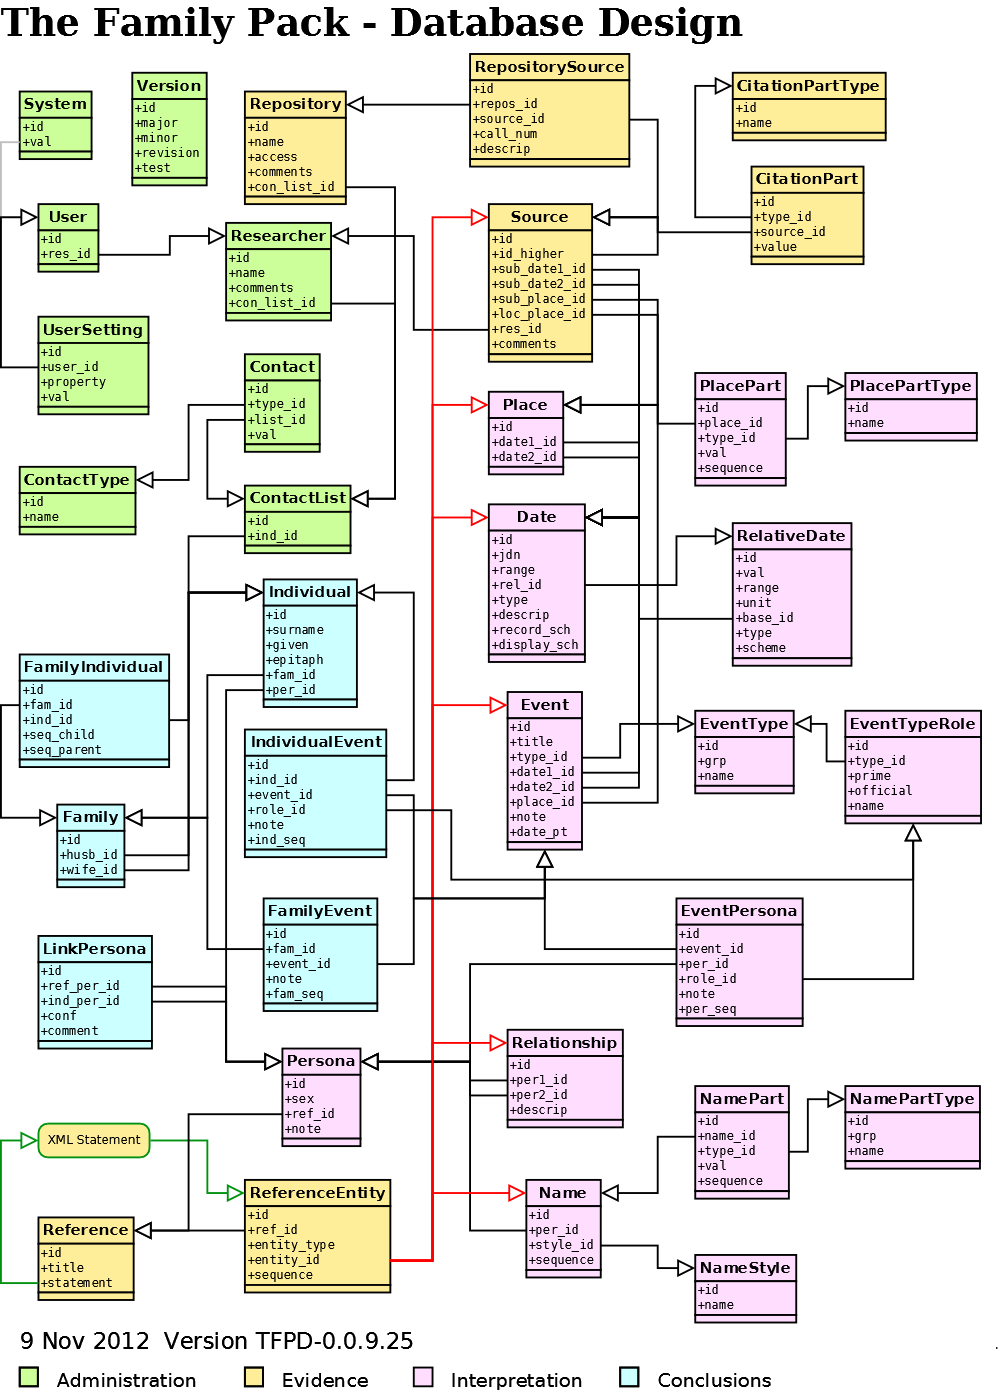
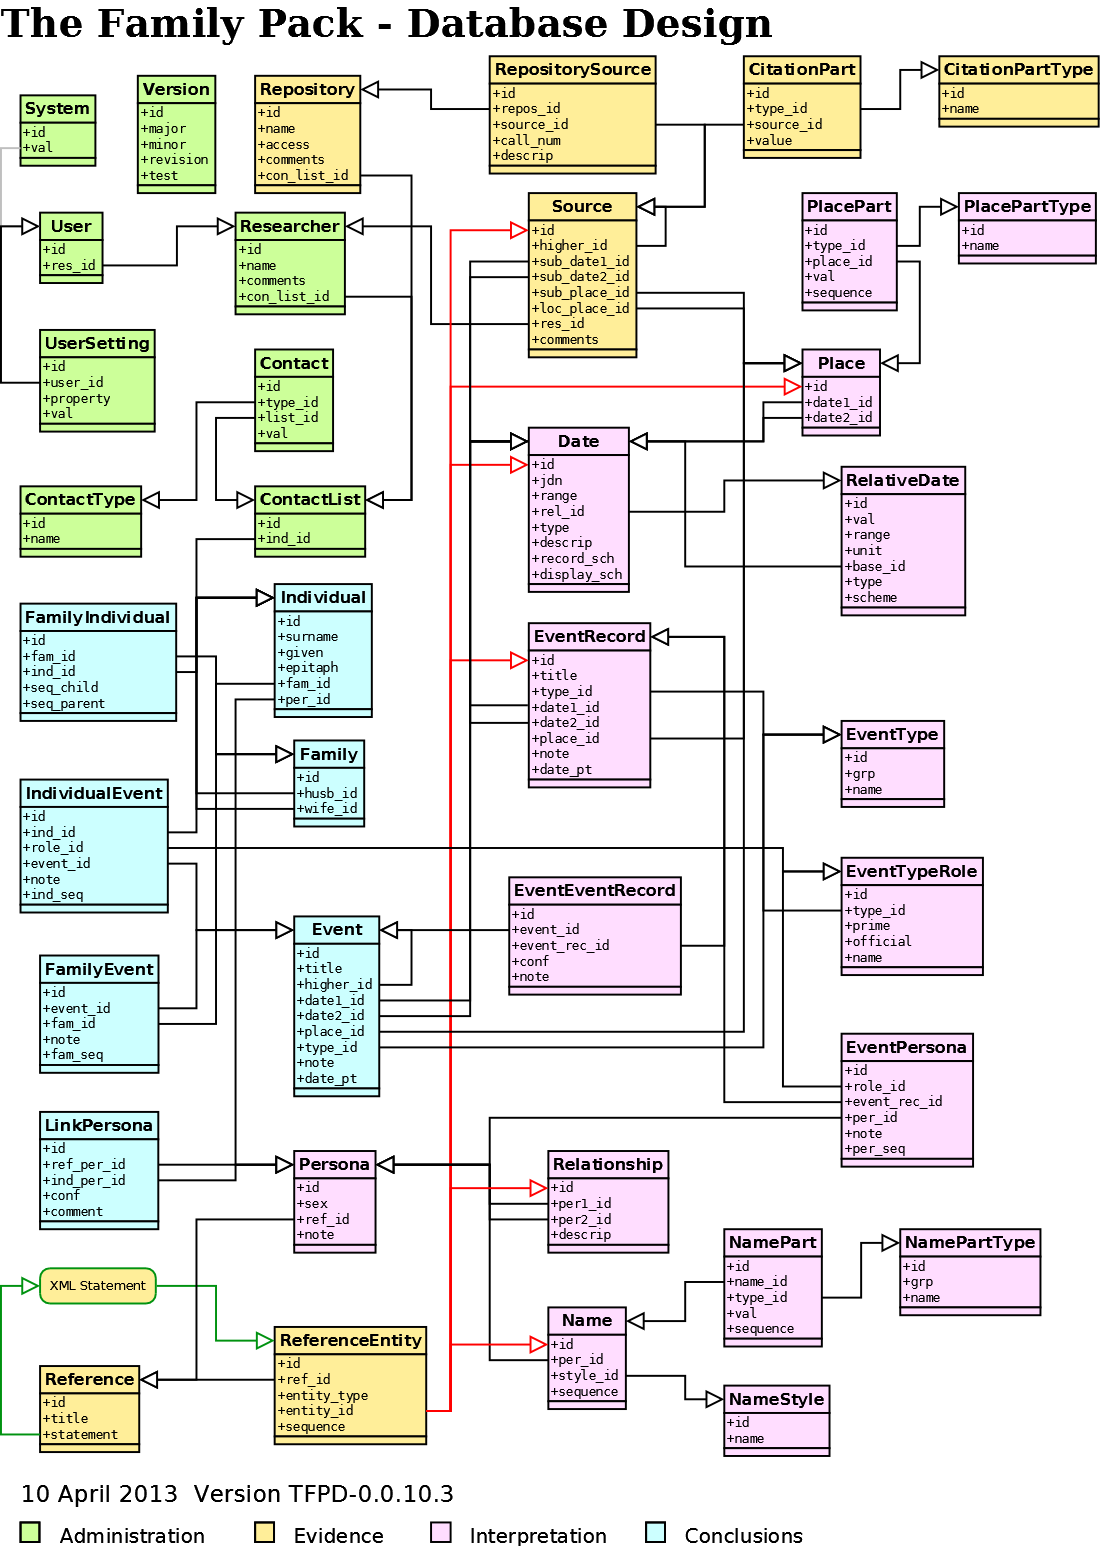
Update database to TFPD-0.0.10.3. Add column higher_id to table Event. Change column event_id to event_rec_id in table EventPersona. Add upgrade function. Update website.
git-svn-id: https://svn.code.sf.net/p/thefamilypack/code/tfp/trunk@479 0b5b8454-fdc9-41d1-a9ee-242ce37e0c65

diff --git a/website/db/dbdesign.htm b/website/db/dbdesign.htm
@@ -326,23 +326,28 @@
      <td>The name of the Event, such as "Marriage of John Smith and Mary Jones".</td>
     </tr>
     <tr>
+     <td>higher_id</td>
+     <td>Integer Not null FK</td>
+     <td>Unique identifier that indicates a higher Event which contains this event.</td>
+    </tr>
+    <tr>
      <td>type_id</td>
      <td>Integer Not null FK</td>
      <td>Unique identifier that indicates to which Event Type this event belongs.</td>
     </tr>
     <tr>
      <td>date1_id</td>
-     <td>Integer</td>
+     <td>Integer Not null FK</td>
      <td>The point date associated with the Event.</td>
     </tr>
     <tr>
      <td>date2_id</td>
-     <td>Integer</td>
+     <td>Integer Not null FK</td>
      <td>The optional second date if a date range is associated with the Event.</td>
     </tr>
     <tr>
      <td>place_id</td>
-     <td>Integer</td>
+     <td>Integer Not null FK</td>
      <td>Unique identifier in Place that indicates where this Event took place.</td>
     </tr>
     <tr>
@@ -400,7 +405,7 @@
      <td>Unique key identifying an EventPersona.</td>
     </tr>
     <tr>
-     <td>event_id</td>
+     <td>event_rec_id</td>
      <td>Integer Not null FK</td>
      <td>Pointer to an EventRecord</td>
     </tr>
@@ -448,17 +453,17 @@
     </tr>
     <tr>
      <td>date1_id</td>
-     <td>Integer</td>
+     <td>Integer Not null FK</td>
      <td>The point date associated with the Event.</td>
     </tr>
     <tr>
      <td>date2_id</td>
-     <td>Integer</td>
+     <td>Integer Not null FK</td>
      <td>The optional second date if a date range is associated with the Event.</td>
     </tr>
     <tr>
      <td>place_id</td>
-     <td>Integer</td>
+     <td>Integer Not null FK</td>
      <td>Unique identifier in Place that indicates where this Event took place.</td>
     </tr>
     <tr>

diff --git a/src/rec/recUpgrade.cpp b/src/rec/recUpgrade.cpp
@@ -42,8 +42,8 @@
 const int recVerMajor    = 0;
 const int recVerMinor    = 0;
 const int recVerRev      = 10;
-const int recVerTest     = 2;
-const wxStringCharType* recVerStr = wxS("TFPD-0.0.10.2");
+const int recVerTest     = 3;
+const wxStringCharType* recVerStr = wxS("TFPD-0.0.10.3");
 
 //============================================================================
 //                 Code to upgrade old versions
@@ -172,6 +172,54 @@ void UpgradeTest0_0_10_1to0_0_10_2()
     char* query =
         "UPDATE Version SET test=2 WHERE id=1;\n"
         "COMMIT;\n"
+    ;
+    recDb::GetDb()->ExecuteUpdate( query );
+}
+
+void UpgradeTest0_0_10_2to0_0_10_3()
+{
+    // Version 0.0.10.2 to 0.0.10.3
+    // Add column higher_id to table Event.
+    // Change column event_id to event_rec_id in table EventPersona.
+
+    char* query =
+        "BEGIN;\n"
+
+        "ALTER TABLE Event RENAME TO OldEvent;\n"
+        "CREATE TABLE Event (\n"
+        "  id INTEGER PRIMARY KEY,\n"
+        "  title TEXT NOT NULL,\n"
+        "  higher_id INTEGER NOT NULL,\n"
+        "  type_id INTEGER NOT NULL REFERENCES EventType(id),\n"
+        "  date1_id INTEGER NOT NULL,\n"
+        "  date2_id INTEGER NOT NULL,\n"
+        "  place_id INTEGER NOT NULL,\n"
+        "  note TEXT NOT NULL,\n"
+        "  date_pt INTEGER NOT NULL\n"
+        ");\n"
+        "INSERT INTO Event"
+        " (id, title, higher_id, type_id, date1_id, date2_id, place_id, note, date_pt)"
+        " SELECT id, title, 0, type_id, date1_id, date2_id, place_id, note, date_pt"
+        " FROM OldEvent;\n"
+        "DROP TABLE OldEvent;\n"
+
+        "ALTER TABLE EventPersona RENAME TO OldEventPersona;\n"
+        "CREATE TABLE EventPersona (\n"
+        "  id INTEGER PRIMARY KEY,\n"
+        "  event_rec_id INTEGER NOT NULL REFERENCES EventRecord(id),\n"
+        "  per_id INTEGER NOT NULL REFERENCES Persona(id),\n"
+        "  role_id INTEGER NOT NULL REFERENCES EventTypeRole(id),\n"
+        "  note TEXT NOT NULL,\n"
+        "  per_seq INTEGER NOT NULL\n"
+        ");\n"
+        "INSERT INTO EventPersona"
+        " (id, event_rec_id, per_id, role_id, note, per_seq)"
+        " SELECT id, event_id, per_id, role_id, note, per_seq"
+        " FROM OldEventPersona;\n"
+        "DROP TABLE OldEventPersona;\n"
+
+        "UPDATE Version SET test=3 WHERE id=1;\n"
+        "COMMIT;\n"
         "VACUUM;\n"
     ;
     recDb::GetDb()->ExecuteUpdate( query );
@@ -183,6 +231,7 @@ void UpgradeRev0_0_10toCurrent( int test )
     {
     case 0: UpgradeTest0_0_10_0to0_0_10_1();  // Fall thru intended
     case 1: UpgradeTest0_0_10_1to0_0_10_2();
+    case 2: UpgradeTest0_0_10_2to0_0_10_3();
     }
 }
 
